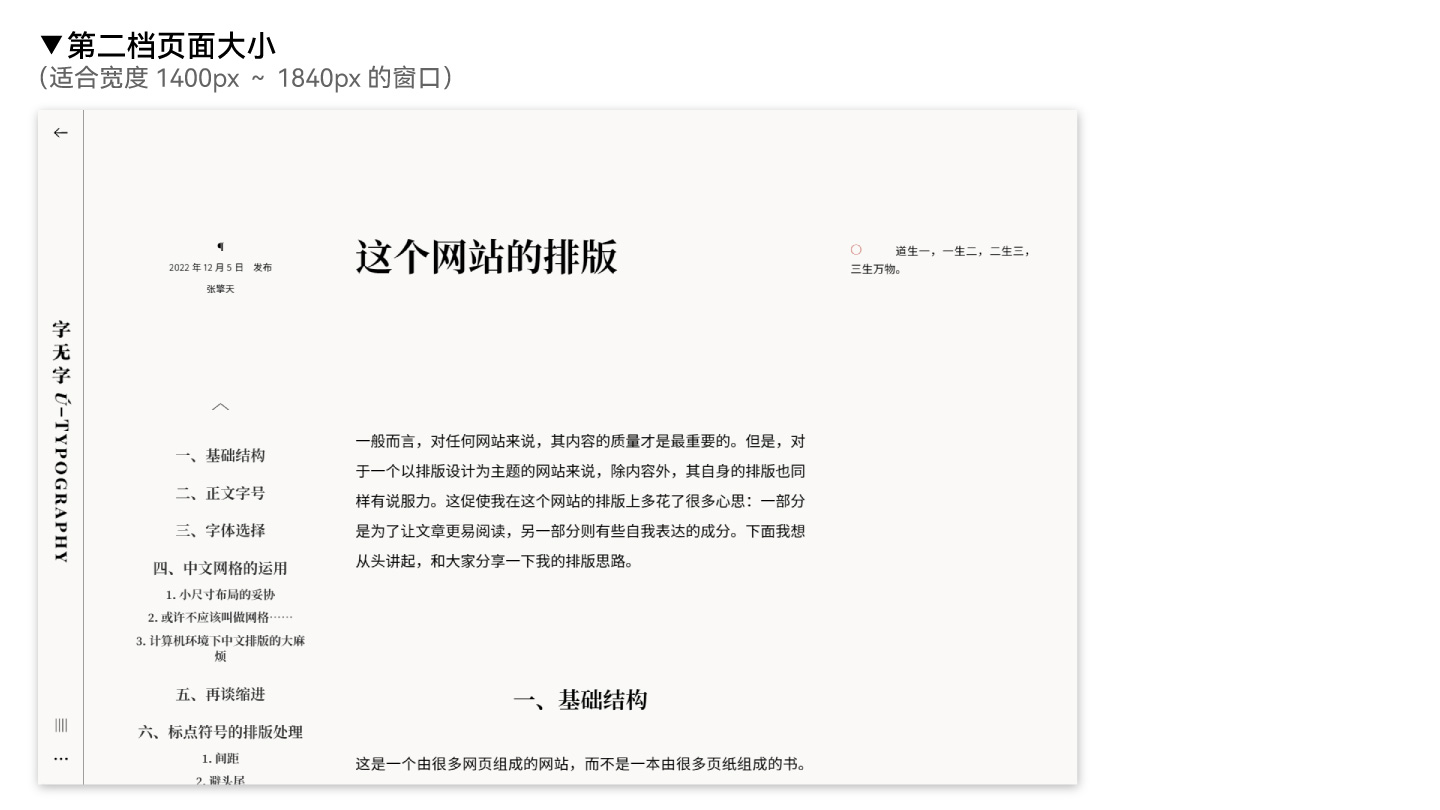
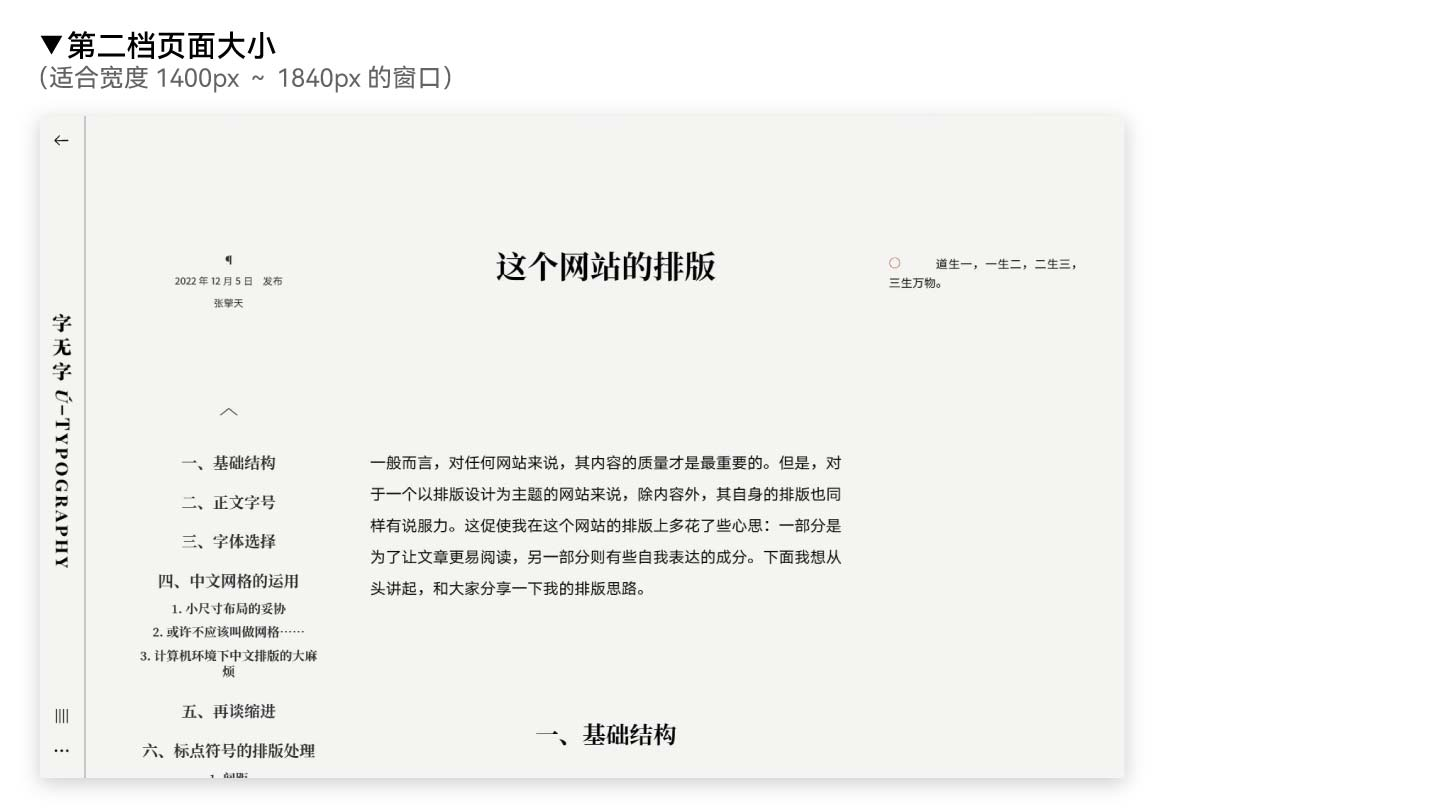
更新内容。微调首页样式。调整交互式段落在微尺寸下的样式。han.js增加波浪连接号。修正排版页微尺寸下居中网格线。修正文章页尺寸零界点bug

diff --git a/Typography_of_this_Site.html b/Typography_of_this_Site.html
@@ -246,15 +246,17 @@
                     <p>这里我不打算挑战这种习惯，依然选择黑体作为正文字体。不过，我特意加入了更换字体的功能，点击右上角（有时是在左下角）的三个小圆点<sup class="sideNoteMark">＃</sup><span class="sideNote"><span class="tabulation">＃&#9;</span>你的浏览器的界面上可能也有三个小圆点，别点错了。点这个网页里的三个小圆点。</span>，你就可以更换这个网页的字体，试试看用宋体来读这篇文章，看看体验如何。</p>
                     <p>至于具体是用何种黑体以及何种宋体，这里使用了<span class="Latin noAutoHyphen" lang="en">Google Fonts</span>服务上提供的思源黑体（<span class="Latin noAutoHyphen" lang="en">Source Han Sans</span>，也叫<span class="Latin noAutoHyphen" lang="en">Noto Sans</span>）和思源宋体（<span class="Latin noAutoHyphen" lang="en">Source Han Serif</span>，也叫<span class="Latin noAutoHyphen" lang="en">Noto Serif</span>）作为保底选项，即便你的设备上没有安装这两个字体，只要网络连接正常，就能用上这两个字体（当然也会额外消耗少量的流量）。这样可以尽量避免出现回退到系统默认字体的情况（现代操作系统默认的黑体大多质量尚可，但默认的宋体在屏幕显示上的效果大多不太理想）。</p>
                     <p>除了保底的字体外，假如你的设备上安装了下列字体，那也有可能以它们来显示：汉仪旗黑、<span class="Latin noAutoHyphen" lang="en">HarmonyOS Sans</span>（华为鸿蒙字体）、<span class="Latin noAutoHyphen" lang="en">MiSans</span>（小米字体）；方正雅宋。<sup class="sideNoteMark">※</sup><span class="sideNote"><span class="tabulation">※&#9;</span>优先调用排序靠前的字体。若该字体未安装则调用下一顺位的字体。所有字体均未安装则使用保底字体。无法正常连接至<span class="Latin noAutoHyphen" lang="en">Google Fonts</span>服务导致无法使用保底字体，则使用系统默认字体。</span>字体的调用顺位纯粹是出于我的个人喜好来决定的。你可能更喜欢顺序更靠后的字体，不过很遗憾，本网站没有提供更改字体顺位的功能。</p>
-                    <figure><img alt="图像" src="images/Typography_of_this_Site/图示_网站用到的字体.jpg" alt=""></figure>
-                    <div class="TuZhu">本网站可能用到的字体</div>
+                    <figure><img alt="图像" src="images/Typography_of_this_Site/图示_网站用到的字体.jpg"></figure>
+                    <div class="TuZhu">本网站可能用到的字体。</div>
                     <p>需要注意的是，由于不同的操作系统、不同的浏览器对字体的渲染方式不同，因而即便排除了上述的屏幕分辨率、缩放倍数之类的不可控因素，同一个字体仍然可能呈现出不同的效果。<sup class="sideNoteMark">⊙</sup><span class="sideNote"><span class="tabulation">⊙&#9;</span>比如，在我的电脑上，用<span class="Latin noAutoHyphen" lang="en">Chrome</span>浏览器和<span class="Latin" lang="en">Firefox</span>浏览器分别打开这个网页，字体的显示效果就不同。<span class="Latin" lang="en">Chrome</span>中的字体效果更细巧一些，<span class="Latin noAutoHyphen" lang="en">Firefox</span>中的字体效果更浑厚一些。本网站主要在<span class="Latin noAutoHyphen" lang="en">Windows</span>操作系统上的<span class="Latin noAutoHyphen" lang="en">Firefox</span>浏览器中调试，因此在<span class="Latin noAutoHyphen" lang="en">Firefox</span>浏览器中的效果是我选择字体的最主要依据。</span></p>
                     <p>对于西文字体，则分别使用<span class="Latin noAutoHyphen" lang="en">Source Sans Pro</span>（与黑体搭配）和<span class="Latin noAutoHyphen" lang="en">Source Serif Pro</span>（与宋体搭配），并对字号做了微调，以便与中文混排时更和谐。<sup class="sideNoteMark">＋&#65279;＋</sup><span class="sideNote" id="＋＋"><span class="tabulation">＋&#65279;＋&#9;</span>这个网站在写<span class="Latin" lang="en">CSS</span>代码时，没有采用常用的“西文字体声明在前，中文字体声明在后”的方法，而是为西文加上专门的<span class="Latin" lang="en">HTML</span>标签，作为单独一个类来设定<span class="Latin" lang="en">CSS</span>样式。这样可以有更高的排版自由度，毕竟中西文有时并不仅仅是字体需要不同，其字号、字重、基线等也可能需要分别设定。</span>西文字体没有设置其他的候选项，这是因为不同的西文字体的宽度比例可能不同，如果允许调用不同的字体，可能导致排版布局发生变化，这对于排版方式较为复杂的本网站来说是个比较麻烦的不可控因素。</p>
                     <h2 id='中文网格的运用'>四、中文网格的运用</h2>
                     <p>最精彩的部分来了。</p>
                     <p>网格系统是平面设计中常用的工具。不过，怎样将诞生于西文环境下的网格系统运用于汉字的排版中来，一直是一个值得钻研的问题。汉字的方块特性使得它本身自带网格属性，如果不仔细斟酌的话，汉字自身的网格特性可能会与页面的网格布局相冲突。</p>
                     <figure><img alt="图像" src="images/Typography_of_this_Site/图示_版面网格与中文网格的冲突1.jpg"></figure>
+                    <div class="TuZhu">汉字自身的网格可能与页面的网格相冲突。在这个例子中，在设定页面网格时没有考虑到它和汉字字数相匹配的问题，于是出现了“少一个字不足，多一个字太多”的问题。</div>
                     <figure><img alt="图像" src="images/Typography_of_this_Site/图示_版面网格与中文网格的冲突2.jpg"></figure>
+                    <div class="TuZhu">如果为了让段落对齐网格而强行左右对齐的话，事实上就是强制拉开了文字的字间距，并且会导致段落内的字距不均匀。正确的做法是在设置页面网格的时候就考虑好它和汉字字数的关系。</div>
                     <p>在这里，我结合个人的习惯，创造出如下的网格布局：以一个正文字的宽度为基本单位，每三个基本单位为一小栏，各个部分均由若干小栏组成（即宽度都是三个字的倍数）。比如，在“大”型布局中，左侧的大纲栏的宽度为十二个正文字，中间正文栏的宽度为三十个正文字，右侧注释栏的宽度为十二个正文字。栏与栏之间的间距为三个正文字。同时，注释字号为正文字号的四分之三，也即四个注释字的宽度等于三个正文字，这样正文和注释就可以在段首缩进相同的距离，同时又严格保证分别与其自身的字号网格对齐。</p>
                     <figure><img alt="图像" src="images/Typography_of_this_Site/图示_各部分宽度示意.jpg"><img alt="图像" src="images/Typography_of_this_Site/图示_正文与注释的字号关系.jpg"></figure>
                     <p>顺便一提，在这个页面的左下角或右上角，有一个由四条竖线组成的按钮<sup class="sideNoteMark">✽&#65279;✽</sup><span class="sideNote"><span class="tabulation">✽&#65279;✽&#9;</span>大概是“||||”的造型，四条竖线组成三个区域，正是对这个页面的网格结构的隐喻。</span>，点击该按钮，就可以显示页面的网格线，能很好地帮助理解上面的内容。其中，浅灰色表示单字网格线，深灰色表示三字网格线，深蓝色表示版块边缘线，浅蓝色表示缩进线，红色表示居中对齐线。</p>
@@ -267,6 +269,7 @@
                     <h3 id='或许不应该叫做网格……'><span class="Latin">2. </span>或许不应该叫做网格<span class="ShengLyueHao">……</span></h3>
                     <p>在传统的书籍设计中，每一页上的正文行都应当对齐到纵向的文字网格，这样在翻页时版面会有稳定感，减小眼睛的负担。但在网页这种连续滚动的媒介中，这种纵向的网格对齐恐怕并不必要。因此，这个网站并不在纵向上规定文字网格。如此一来，似乎将这样一种单向分割的网格系统叫做“栅栏系统”更加贴切<span class="ShengLyueHao">……</span>或者说，这里的网格指的是汉字自身的网格，而非用参考线画出来的网格。</p>
                     <figure><img alt="图像" src="images/Typography_of_this_Site/图示_书籍的横向和纵向网格.jpg"></figure>
+                    <div class="TuZhu">传统的书籍设计，每一页上的正文都应该对齐到统一的纵向网格。标题、注释等非正文元素倒是可以不对齐到纵向网格。</div>
                     <h3 id='计算机环境下中文排版的大麻烦'><span class="Latin">3. </span>计算机环境下中文排版的大麻烦</h3>
                     <p>在计算机上排中文有时会遇到一些麻烦。假设段落宽度和字号大小都是固定的，那处理起来便非常容易；但是，假如段落的宽度会随着窗口宽度的变化而改变（这是电脑上经常出现的情况，也是这个网站的“微”型布局采用的方式），或者在窗口宽度不变的情况下可以自行设定字号大小（这是手机、电纸书等小尺寸设备上常见的排版功能），就可能会遇到一些问题。</p>
                     <p>下面的交互式图示中有三个段落，段落①采用当今的计算机软件上常见的排版方式，并且段落左右对齐；段落②是理想的中文排版方式，并且段落左右对齐；段落③则采用左对齐的方式来当作参照。缓慢拖动下方的滑块，改变该区域的宽度，仔细观察在宽度改变时，三个段落的字间距会有怎样的变化。<!--（一些使用触摸屏的设备上可能无法正常使用该交互功能，可直接看下方的图示）--></p>
@@ -281,6 +284,7 @@
                     <div class="TuZhu">不恰当的排版方式，会导致段落内部的字间距不一致，尤其是除最后一行以外的其他行的字间距会被拉开。</div>
                     <p>为了正文阅读的排版，字间距是相当重要的。随意改变字间距是致命的，西方字体排印界有句谚语：“拉开小写字母字间距的人会╳羊。”<sup class='footnoteMark' id='footnote-mark-2'><a href='#footnote-number-2'>2</a></sup>中文没有这样的说法，但仍不应过分拉大或缩小字间距，而一个段落内部或段落之间的字间距不一致更是大罪过<sup class="sideNoteMark">＃&#65279;＃</sup><span class="sideNote"><span class="tabulation">＃&#65279;＃&#9;</span>有些情况下，比如为了标点避头尾，中西混排等，字间距可以稍稍不一致，但这里显然并非这种情况。</span>，这让版面灰度变得参差，阅读节奏变得混乱，无论是看起来还是读起来都不舒服。</p>
                     <figure><img alt="图像" src="images/Typography_of_this_Site/图示_行长等于字号的整数倍2.jpg"></figure>
+                    <div class="TuZhu">不恰当的排版方式导致版面灰度不均，阅读节奏不稳定。</div>
                     <p>上面的图示中的段落①正是犯了这个毛病；段落②的排版是恰当的；段落③的排版也正常，只是中文的正文排版通常都是左右对齐，单纯左对齐的情况较为少见。</p>
                     <p>之所以会出现段落①的问题，是因为在排版时段落的宽度没有始终等于单个字的宽度的整数倍<sup class='footnoteMark' id='footnote-mark-3'><a href='#footnote-number-3'>3</a></sup>，也就是没有处理好上面提到的汉字自身的网格特性。<sup class="sideNoteMark">※&#65279;※</sup><span class="sideNote"><span class="tabulation">※&#65279;※&#9;</span>一般来说，出现这样的问题可能是在设定版式时，让段落的宽度等于页面宽度的某个固定的比例，或者是从页面上减去固定的边距后，在剩下的区域内填充段落。这些做法在当前的计算机软件上实现起来是较为容易的，然而这是个陷阱。</span>计算机软件的排版功能大多为西文排版而设计，一些看起来理所当然的操作，虽然对于西文是合适的，但若直接套用在中文身上，可能就会出问题。</p>
                     <p>遗憾的是，在网页上用原生的<span class="Latin" lang="en">HTML</span>和<span class="Latin" lang="en">CSS</span>无法实现第二个段落的效果，在大部分平面设计软件中要实现这样的效果也稍有麻烦，<strong>这是计算机时代中文排版的一大挑战</strong>。在这个网站上，为了实现这样的效果，用到了一些<span class="Latin" lang="en">JavaScript</span>，核心代码如下：</p>
@@ -301,7 +305,7 @@ window.visualViewport.addEventListener(&quot;resize&quot;, chineseGrid);
                     <h2 id='再谈缩进'>五、再谈缩进</h2>
                     <p>前文已经说明了每个段落开头空三格是为了配合整体的网格布局。除了这个原因外，段首空三格还能创造出较大的空白，这样在页面滚动时能更好地凸显出段落的分割。（在段落间增加额外的间距也能起到同样的效果，这里没有采用这种方法。）</p>
                     <p>另外你还会发现，这个网站在每个小标题下的第一个段落不采用首行缩进。</p>
-                    <p>首行缩进（在中文里一般是开头空两格）的目的是为了将本段落与上一个段落区分开来，而第一个段落没有“上一个段落”，自然也就无需缩进，非常符合逻辑。<sup class="sideNoteMark">⊙&#65279;⊙</sup><span class="sideNote"><span class="tabulation">⊙&#65279;⊙&#9;</span>这种第一个段落不缩进，第二个段落再开始缩进的做法在西文中是比较常见的（通常还伴随着第一个段落的前几个单词使用小型大写字母），这里确实有所借鉴。另外，有观点认为，在网页上使用段落间增加空行的方法来分段比使用首行缩进更好。这种观点有一定的道理。不过，这个网站的设计思路之一是挑战在网页上做出如同印刷品般精细的排版，所以采用了段首缩进的分段方式。</span>当然，像通常的习惯那样每个段落开头空两格也有道理，这样可以将缩进视作是段落开始的一个仪式，也说得通。我听说藏文等一些文字在每个段落的开头都会使用专门的符号来表示段落的起始，这种仪式性的符号也确实别有一番风味。</p>
+                    <p>首行缩进（在中文里一般是开头空两格）的目的是为了将本段落与上一个段落区分开来，而第一个段落没有“上一个段落”，自然也就无需缩进，非常符合逻辑。<sup class="sideNoteMark">⊙&#65279;⊙</sup><span class="sideNote"><span class="tabulation">⊙&#65279;⊙&#9;</span>这种第一个段落不缩进，第二个段落再开始缩进的做法在西文中是比较常见的（通常还伴随着第一个段落的前几个单词使用小型大写字母），这里确实有所借鉴。<!--另外，有观点认为，在网页上使用段落间增加空行的方法来分段比使用首行缩进更好。这种观点有一定的道理。不过，这个网站的设计思路之一是挑战在网页上做出如同印刷品般精细的排版，所以采用了段首缩进的分段方式。--></span>当然，像通常的习惯那样每个段落开头空两格也有道理，这样可以将缩进视作是段落开始的一个仪式，也说得通。我听说藏文等一些文字在每个段落的开头都会使用专门的符号来表示段落的起始，这种仪式性的符号也确实别有一番风味。</p>
                     <p>另外，更重要的是，由于开头空三格已经出现了很大的空白，在小尺寸的布局中，让第一个段落不缩进可以避免它和标题形成的空白造型过于不规整。</p>
                     <figure><img alt="图像" src="images/Typography_of_this_Site/图示_缩进1.jpg"><img alt="图像" src="images/Typography_of_this_Site/图示_缩进2.jpg"></figure>
                     <h2 id='标点符号的排版处理'>六、标点符号的排版处理</h2>
@@ -320,7 +324,7 @@ window.visualViewport.addEventListener(&quot;resize&quot;, chineseGrid);
                                 短横线（<span class="BanZiXian">–</span>）、间隔号（<span class="JianGeHao">·</span>）、分隔号（<span class="FenGeHao">／</span>）占半个字的宽度；</p>
                         </li>
                         <li>
-                            <p><span class="orderedListIndex"><span class="Latin">3</span>）&#9;</span>其他标点在单独使用时占一个字的宽度，在多个标点连用时灵活调整标点间的间距。<sup class="sideNoteMark">＃&#65279;＃&#65279;＃</sup><span class="sideNote"><span class="tabulation">＃&#65279;＃&#65279;＃&#9;</span>很多人以为国标中对标点的宽度的描述是每个标点占一个字的宽度（也就是“全宽式”），其实并不是。除去破折号、省略号这两个长标点占两个字外，国标仍将短横线、间隔号、分隔号这三个标点定义为半个字宽，这其实非常符合排版的美观性的要求，也利于流畅阅读。</span></p>
+                            <p><span class="orderedListIndex"><span class="Latin">3</span>）&#9;</span>其他标点在单独使用时占一个字的宽度，在多个标点连用时灵活调整标点间的间距。<sup class="sideNoteMark">＃&#65279;＃&#65279;＃</sup><span class="sideNote"><span class="tabulation">＃&#65279;＃&#65279;＃&#9;</span>很多人以为国标中对标点的宽度的描述是每个标点占一个字的宽度（也就是“全宽式”），其实并不是。除去破折号、省略号这两个长标点占两个字外，国标仍将短横线（俗称半字线）、间隔号、分隔号这三个标点定义为半个字宽，这其实非常符合排版的美观性的要求，也利于流畅阅读。</span></p>
                         </li>
                     </ol>
                     <p class="noIndentParagraph">对中西文之间的间距则设定为四分之一个汉字宽，这也是目前的排版实践中较常用的做法，虽然事实上间距再稍稍大一些或小一些也都是合适的。</p>
@@ -329,7 +333,7 @@ window.visualViewport.addEventListener(&quot;resize&quot;, chineseGrid);
                     <p>标点的避头尾参照《<cite>标点符号用法</cite>》和日常使用习惯。<sup class="sideNoteMark">※&#65279;※&#65279;※</sup><span class="sideNote"><span class="tabulation">※&#65279;※&#65279;※&#9;</span>在<span class="Latin noAutoHyphen" lang="en">Chrome</span>、<span class="Latin noAutoHyphen" lang="en">Edge</span>、<span class="Latin noAutoHyphen" lang="en">Safari</span>等浏览器上有时一些标点避头尾会出问题，而在<span class="Latin noAutoHyphen" lang="en">Firefox</span>浏览器上没有问题。该问题暂时超出我的技术能力范围，恕无法解决。</span>对于<!--《<cite>标点符号用法</cite>》中没有明确说明，且-->日常使用习惯上有争议的内容，这里处理如下：</p>
                     <ol>
                         <li>
-                            <p><span class="orderedListIndex"><span class="Latin">1</span>）&#9;</span>破折号（<span class="PoZheHao">——</span>）、省略号（<span class="ShengLyueHao">……</span>）在《<cite>标点符号用法</cite>》中未说明需要避头或避尾<sup class="sideNoteMark">⊙&#65279;⊙&#65279;⊙</sup><span class="sideNote" id="⊙⊙⊙"><span class="tabulation">⊙&#65279;⊙&#65279;⊙&#9;</span>原文为“<span class="ShengLyueHao">……</span>不能中间断开分处上行之末和下行之首。”目前计算机中的中文破折号和省略号各自是由两个字符组合而成，在较弱的排版软件中这两个字符可能会前一个出现在上一行，后一个出现在下一行。这句话是针对此而说的。有人将其理解为“破折号、省略号不能处于上行之末或下行之首”，这是完全误解了这句话的意思。</span>，在日常使用习惯上通常会避头，有时会避尾，这里选择既不避头也不避尾。</p>
+                            <p><span class="orderedListIndex"><span class="Latin">1</span>）&#9;</span>破折号（<span class="PoZheHao">——</span>）、省略号（<span class="ShengLyueHao">……</span>）在《<cite>标点符号用法</cite>》中未说明需要避头或避尾<sup class="sideNoteMark">⊙&#65279;⊙&#65279;⊙</sup><span class="sideNote" id="⊙⊙⊙"><span class="tabulation">⊙&#65279;⊙&#65279;⊙&#9;</span>《<cite>标点符号用法</cite>》原文为“<span class="ShengLyueHao">……</span>不能中间断开分处上行之末和下行之首。”目前计算机中的中文破折号和省略号各自是由两个字符组合而成，在较弱的排版软件中这两个字符可能会前一个出现在上一行，后一个出现在下一行。这句话是针对此而说的。有人将其理解为“破折号、省略号不能处于上行之末或下行之首”，这是完全误解了这句话的意思。</span>，在日常使用习惯上通常会避头，有时会避尾，这里选择既不避头也不避尾。</p>
                             <figure><img alt="图像" src="images/Typography_of_this_Site/图示_避头尾破折号省略号.jpg"></figure>
                             <p>这是因为破折号和省略号会占用两个字的宽度，假如它们既要避头又要避尾的话，也就意味着连带它们前后的字符，会出现一个至少四个字宽的不可换行字符组。这样一个长字组如果要求它必须整体位于上一行之尾或下一行之首，则可能导致一行文字的字间距被过分地拉大（这样做的危害在前面已经介绍过了）。解决这一问题的方法出奇地简单：让破折号、省略号能出现在行首或行末就可以了。至于有人说“破折号、省略号这种细长条的符号直接出现在段落边缘不美观”，对此我不予否认，但我认为文字间距被过分地拉大更加“不美观”。同时，一个细长条的符号在段落边缘吊着孤零零的一个字，或许也不“美观”。另外，考虑到汉字“一一（<span class="Latin noAutoHyphen">yīyī</span>）”也可能出现在段落边缘，或许我们不必对段落边缘的细长条造型太过敏感。</p>
                             <figure><img alt="图像" src="images/Typography_of_this_Site/图示_避头尾破折号过于严格问题.jpg"></figure>
@@ -337,7 +341,7 @@ window.visualViewport.addEventListener(&quot;resize&quot;, chineseGrid);
                         <li>
                             <p><span class="orderedListIndex"><span class="Latin">2</span>）&#9;</span>一字线（<span class="YiZiXian">—</span>）、短横线（<span class="BanZiXian">–</span>）、浪纹线（～）按《<cite>标点符号用法</cite>》需要避头而不需要避尾，在日常使用习惯上通常会避头，有时会避尾，这里选择需要避头而不需要避尾。</p>
                             <figure><img alt="图像" src="images/Typography_of_this_Site/图示_避头尾一字线短横线浪纹线.jpg"></figure>
-                            <p>这应该很少有争议，因为这些符号无论从造型上还是从功能上都类似于西文中的<span class="Latin noAutoHyphen" lang="en">hyphen</span>和<span class="Latin noAutoHyphen" lang="en">dash</span>，<sup class="sideNoteMark">＋&#65279;✽&#65279;＃</sup><span class="sideNote"><span class="tabulation">＋&#65279;✽&#65279;＃&#9;</span>我没有做过调研，但我猜测这些符号就是从西文中的<span class="Latin noAutoHyphen" lang="en">hyphen</span>和<span class="Latin noAutoHyphen" lang="en">dash</span>演变来的。</span>而<span class="Latin noAutoHyphen" lang="en">hyphen</span>和<span class="Latin noAutoHyphen" lang="en">dash</span>的排版方法就是需要避头而不需要避尾，这样做非常合理，也恰好与国家标准相符。<sup class="sideNoteMark">✽&#65279;＃&#65279;※</sup><span class="sideNote" id="✽＃※"><span class="tabulation">✽&#65279;＃&#65279;※&#9;</span>需要注意的是，目前在计算机中，中文一字线通常使用<span class="Latin" lang="en">1</span>个<span class="Latin noAutoHyphen" lang="en">Em Dash</span>（—，<code>U+2014</code>）来表示，中文破折号通常使用<span class="Latin" lang="en">2</span>个<span class="Latin noAutoHyphen" lang="en">Em Dash</span>（<span class="PoZheHao">——</span>，<code>U+2014</code><span class="Latin" lang="en"> ×&nbsp;2</span>）来表示（另外，还有<span class="Latin noAutoHyphen" lang="en">Two-Em Dash</span>〔⸺，<code>U+2E3A</code>〕这个字符，或许更适合用来表示中文破折号，但大多数字体和输入法都不支持这一字符）。由于一字线和破折号使用的是同样的字符，因而对其中一个标点设置的避头尾属性也很有可能被同时运用在另一个上。</span></p>
+                            <p>这应该很少有争议，因为这些符号无论从造型上还是从功能上都类似于西文中的<span class="Latin noAutoHyphen" lang="en">hyphen</span>和<span class="Latin noAutoHyphen" lang="en">dash</span><sup class="sideNoteMark">＋&#65279;✽&#65279;＃</sup><span class="sideNote"><span class="tabulation">＋&#65279;✽&#65279;＃&#9;</span>我没有做过调研，但我猜测这些符号就是从西文中的<span class="Latin noAutoHyphen" lang="en">hyphen</span>和<span class="Latin noAutoHyphen" lang="en">dash</span>演变来的。</span>，而<span class="Latin noAutoHyphen" lang="en">hyphen</span>和<span class="Latin noAutoHyphen" lang="en">dash</span>的排版方法就是需要避头而不需要避尾，这样做非常合理，也恰好与国家标准相符。<sup class="sideNoteMark">✽&#65279;＃&#65279;※</sup><span class="sideNote" id="✽＃※"><span class="tabulation">✽&#65279;＃&#65279;※&#9;</span>需要注意的是，目前在计算机中，中文一字线通常使用<span class="Latin" lang="en">1</span>个<span class="Latin noAutoHyphen" lang="en">Em Dash</span>（—，<code>U+2014</code>）来表示，中文破折号通常使用<span class="Latin" lang="en">2</span>个<span class="Latin noAutoHyphen" lang="en">Em Dash</span>（<span class="PoZheHao">——</span>，<code>U+2014</code><span class="Latin" lang="en"> ×&nbsp;2</span>）来表示（另外，还有<span class="Latin noAutoHyphen" lang="en">Two-Em Dash</span>〔⸺，<code>U+2E3A</code>〕这个字符，或许更适合用来表示中文破折号，但大多数字体和输入法都不支持这一字符）。由于一字线和破折号使用的是同样的字符，因而对其中一个标点设置的避头尾属性也很有可能被同时运用在另一个上。</span></p>
                         </li>
                         <li>
                             <p><span class="orderedListIndex"><span class="Latin">3</span>）&#9;</span>间隔号（<span class="JianGeHao">·</span>）按《<cite>标点符号用法</cite>》需要避头而不需要避尾，在日常使用习惯上可能既避头又避尾，这里选择需要避头而不需要避尾。</p>
@@ -364,16 +368,16 @@ window.visualViewport.addEventListener(&quot;resize&quot;, chineseGrid);
                             <p><span class="orderedListIndex"><span class="Latin">2</span>）&#9;</span>括号按照一般的使用习惯处理。</p>
                             <p>对于圆括号“（&#8197;）”内需要嵌套使用圆括号的情况，则二级圆括号改用六角括号“〔&#8197;〕”。之所以二级括号不使用方括号“［&#8197;］”是为了避免它的造型和二级引号过于接近，比如［「这样」］。</p>
                         </li>
-                        <li>
+                        <!-- <li>
                             <p><span class="orderedListIndex"><span class="Latin">3</span>）&#9;</span>对于顿号，采用了类似“牛津逗号”的做法，即并列的多个词语之间都加顿号，包括最后两个并列词语之间（按现今的中文习惯，并列的多个词语中的最后两个之间不加顿号，只使用“和”或“或”）。</p>
                             <p>“牛津逗号”可以在一定程度上避免英文表达的歧义，而现今中文里顿号的用法较少造成歧义。这里仍然改用“牛津逗号”的做法是因为在如今常见的中文排版方法下，标点通常占一个字宽，于是会留出明显的空白。这些空白可以作为视觉锚点，明确各个并列的词语的起止位置。同时，这样做从视觉上也能直观地看出并列的事物的数量。</p>
-                        </li>
+                        </li> -->
                         <li>
-                            <p><span class="orderedListIndex"><span class="Latin">4</span>）&#9;</span>中文文本里的西文作品名不使用斜体，而是仍按中文习惯使用书名号。<sup class="sideNoteMark">＋&#65279;⊙&#65279;※</sup><span class="sideNote"><span class="tabulation">＋&#65279;⊙&#65279;※</span>我知道这不符合《<cite>夹用英文的中文文本的标点符号用法（草案）</cite>》第<span class="Latin" lang="en">6.2</span>条。但我对我的观点非常有自信。</span></p>
+                            <p><span class="orderedListIndex"><span class="Latin">3</span>）&#9;</span>中文文本里的西文作品名不使用斜体，而是仍按中文习惯使用书名号。<sup class="sideNoteMark">＋&#65279;⊙&#65279;※</sup><span class="sideNote"><span class="tabulation">＋&#65279;⊙&#65279;※</span>我知道这不符合《<cite>夹用英文的中文文本的标点符号用法（草案）</cite>》第<span class="Latin" lang="en">6.2</span>条。但我对我的观点非常有自信。</span></p>
                             <p>这么做是为了形式上的一致性。既然是夹杂在中文文本中的零星的外文词语，那完全可以（也应该）按中文的排版方式来处理。比如中文里出现连续并列的英文词汇时，它们之间是使用顿号而不是按英文习惯使用逗号；中文里引用法文词句时，通常也是使用弯引号，而不是按法文习惯用尖角引号。给西文作品名加上书名号，既不会让信息传达出现偏差，也不会造成文本过于不美观（中文书名号直接来源于西文尖角引号，它与西文必然能和谐搭配，如果不美观那是字体设计的问题）。假如要求外文作品名按照该文字的排版习惯来处理的话，那日文书名是否也应该按照日文习惯使用『』来表示？阿拉伯文书名是否也应该按照阿拉伯文的习惯来表示？（我其实不知道阿拉伯文是如何表示书名的。）仅仅让英文书名按照源语言的排版习惯来处理，似乎是人为制造了双重标准。</p>
                         </li>
                         <li>
-                            <p><span class="orderedListIndex"><span class="Latin">5</span>）&#9;</span>由于这个网站的每篇文章既有边注，又有尾注。在尾注使用数字编号的情况下，为了防止混淆，边注就不再使用数字，并且也没有使用西文传统上的“*””“†”“‡” “§”“¶”“‖”<sup class='footnoteMark' id='footnote-mark-5'><a href='#footnote-number-5'>5</a></sup>，而是采用“＋”“✽”“＃”“※”“⊙”，五个用完后则使用“＋＋”“✽✽”“＃＃”<span class="ShengLyueHao">……</span>，以此类推。这么做没有什么特别的理由，只是为了增加一些个性。（在“微”型布局下，边注会转换为行内注，此时不再使用编号。）</p>
+                            <p><span class="orderedListIndex"><span class="Latin">4</span>）&#9;</span>由于这个网站的每篇文章既有边注，又有尾注。在尾注使用数字编号的情况下，为了防止混淆，边注就不再使用数字，并且也没有使用西文传统上的“*””“†”“‡” “§”“¶”“‖”<sup class='footnoteMark' id='footnote-mark-5'><a href='#footnote-number-5'>5</a></sup>，而是采用“＋”“✽”“＃”“※”“⊙”，五个用完后则使用“＋＋”“✽✽”“＃＃”<span class="ShengLyueHao">……</span>，以此类推。这么做没有什么特别的理由，只是为了增加一些个性。（在“微”型布局下，边注会转换为行内注，此时不再使用编号。）</p>
                         </li>
                     </ol>
                     <hr>

diff --git a/Donate.html b/Donate.html
@@ -95,7 +95,7 @@
                     <div class="metaInfo-Seperator"></div>
                     <div id="time">
                         <ul>
-                            <li><time pubdate datetime="2022-05-31"><span class="number">2022</span>年<span class="number">5</span>月<span class="number">31</span>日</time>&emsp;发布</li>
+                            <li><time pubdate datetime="2023-02-21"><span class="number">2023</span>年<span class="number">2</span>月<span class="number">21</span>日</time>&emsp;发布</li>
                         </ul>
                     </div>
                     <div class="metaInfo-Seperator"></div>
@@ -119,13 +119,13 @@
             </div>
             <div id="mainContent">
                 <article>
-                    <p>这个网站上的所有内容都是免费观看的，您不需要为此支付任何费用。不过，如果您觉得这个网站对您有很大帮助，也欢迎给我打赏。您的支持将鼓励我产出更多的优质内容。</p>
-                    <!-- <p>【收款码】</p> -->
+                    <p>如果您觉得这个网站对您有很大帮助，欢迎给我打赏！您的支持将鼓励我产出更多优质的内容。</p>
+                    <figure><img alt="支付宝收款码" src="images/Donate/支付宝收款码.JPG"></figure>
                     <p>打赏是完全自愿的。无论您是否打赏，或者打赏的金额多少，您都不会被区别对待。</p>
                     <p>打赏前请仔细确认打赏金额和收款人，打赏后无法退款。</p>
                     <p>打赏时您可以将您的姓名或昵称一并发送，我将在致谢页面予以展示。您也可以选择匿名。<sup class="sideNoteMark">＋</sup><span class="sideNote"><span class="tabulation">＋</span>昵称中若包含不宜公开展示的内容，在展示时也将按匿名处理，请谅解。</span></p>
                     <p>&nbsp;</p>
-                    <p>如果您是打算向我支付对本网站上的内容的特定使用方式的报酬（详见“<a href="Copyright.html" target="_blank">版权声明</a>”），请不要通过打赏渠道向我付费，请通过邮件和我联系（详见“<a href="Contact_and_Feedback.html" target="_blank">联系与反馈</a>”），感谢您的支持！</p>
+                    <p><small>如果您是打算向我支付对本网站上的内容的特定使用方式的报酬（详见“<a href="Copyright.html" target="_blank">版权声明</a>”），请不要通过打赏渠道向我付费，请通过邮件和我联系（详见“<a href="Contact_and_Feedback.html" target="_blank">联系与反馈</a>”），感谢您的支持！</small></p>
                 </article>
                 <footer>
                     <small>©&#8197;<a href="Copyright.html" target="_blank">版权声明</a>&emsp;＠&#8197;<a href="Contact_and_Feedback.html" target="_blank">联系与反馈</a>&emsp;♡&#8197;<a href="Acknowledgements.html" target="_blank">致谢</a></small>

diff --git a/styles/additional/u-Typography-Typography_of_this_Site-additional.css b/styles/additional/u-Typography-Typography_of_this_Site-additional.css
@@ -140,10 +140,9 @@ input[type="range"]::-moz-range-thumb {
 	box-sizing: border-box;
 	/* transition: background-color 200ms ease-in-out; */
 }
-input[type="range"]::-moz-range-thumb:hover{
+input[type="range"]::-moz-range-thumb:hover {
 	box-shadow: 0px 0px 4px var(--colour-1);
 	transition: box-shadow 200ms ease-in-out;
-
 }
 /* input[type="range"]::-moz-range-thumb:hover {
 	background: rgb(253, 250, 242);
@@ -170,7 +169,6 @@ input[type="range"]::-webkit-slider-thumb {
 	height: 15px;
 } */
 
-
 /* 【1】#############################
 宽度大于1820的窗口，或经过1.25倍放大的宽度大于2275的窗口
 适用于1920宽的屏幕，或经过1.25倍放大的2560宽的屏幕
@@ -179,7 +177,7 @@ input[type="range"]::-webkit-slider-thumb {
 	#＋＋ {
 		margin-top: 3.75rem;
 	}
-	#✽＃※{
+	#✽＃※ {
 		margin-top: 1rem;
 	}
 }
@@ -229,10 +227,10 @@ input[type="range"]::-webkit-slider-thumb {
 	#＋＋ {
 		margin-top: 9rem;
 	}
-	#⊙⊙⊙{
-		margin-top: 0.75rem;
+	#⊙⊙⊙ {
+		margin-top: 1.75rem;
 	}
-	#✽＃※{
+	#✽＃※ {
 		margin-top: 1.25rem;
 	}
 }
@@ -270,10 +268,18 @@ input[type="range"]::-webkit-slider-thumb {
 	#＋＋ {
 		margin-top: -1rem;
 	}
+	#中文网格的运用{
+		margin-top: 8rem;
+	}
 }
 /* 【5】#############################
 宽度小于660的窗口，或经过1.25倍放大的宽度小于825的窗口
 正文字号20。*/
+@media screen and (max-width: 679px) {
+	#gridMask {
+		border-right: 1px solid var(--colour-grid-Core);
+	}
+}
 @media screen and (max-width: 680px) {
 	#gridMask {
 		max-width: 28rem;
@@ -284,9 +290,7 @@ input[type="range"]::-webkit-slider-thumb {
 	/* #gridLine-Last-Layout_5{
 		display: inline-block;
 	} */
-	#gridMask{
-		border-right: 1px solid var(--colour-grid-Core);
-	}
+
 	.layout_2_hidden {
 		display: none;
 	}
@@ -308,9 +312,21 @@ input[type="range"]::-webkit-slider-thumb {
 	/* .layout_4_Important {
 		background-color: var(--colour-grid-important);
 	} */
+	#ZuoYouShuangQi-X,
+	#ZuoYouShuangQi-O,
+	#ZuoQi {
+		/* margin: 1rem calc(1rem + 1px); */
+		font-size: 0.75rem;
+		line-height: 1rem;
+		/* text-indent: 0; */
+		/* text-align: justify; */
+		/* color: rgb(66, 66, 66); */
+		/* max-width: 100%; */
+		min-width: 6rem;
+	}
 }
 @media screen and (max-width: 600px) {
 	#gridLine-Centre-Layout_3_4_5 {
-		left: calc(50% - 0.25rem);
+		left: 50%;
 	}
 }

diff --git a/scripts/additional/u-Typography-Typography_of_this_Site-additional.js b/scripts/additional/u-Typography-Typography_of_this_Site-additional.js
@@ -48,25 +48,9 @@ window.addEventListener("resize", gridLineDisplay);
 gridLineDisplay();
 
 
-// 下面是调整段落宽度的
+// 下面是调整交互式段落宽度的
 let ShuangQi_DuanLuo = document.getElementById("ZuoYouShuangQi-O");
 let resizeFrame = document.getElementById("resize");
-// let page = document.getElementById("page");
-// function ZuoYouShuangQi() {
-//     let size = resizeFrame.offsetWidth;
-//     console.log(size);
-//     // size = size.substring(0, size.length - 2);//去掉size后面的“px”
-//     let ZiShu = Math.floor(size / 20) - 4;
-//     console.log(size, ZiShu)
-//     ShuangQi_DuanLuo.style.width = ZiShu + "em";
-// }
-// resizeFrame.addEventListener("mouseover", ZuoYouShuangQi);
-// resizeFrame.addEventListener("mousemove", ZuoYouShuangQi);
-// resizeFrame.addEventListener("mousedown", ZuoYouShuangQi);
-// page.addEventListener("mousemove", ZuoYouShuangQi);
-// page.addEventListener("touchstart", ZuoYouShuangQi);
-// page.addEventListener("touchmove", ZuoYouShuangQi);
-// ZuoYouShuangQi();
 let slider = document.getElementById("paragraphWidth");
 let changeFrameWidth = function () {
     let percentage = slider.value / 10;
@@ -76,7 +60,13 @@ let changeFrameWidth = function () {
     let size = resizeFrame.offsetWidth;
     console.log(size);
     // size = size.substring(0, size.length - 2);//去掉size后面的“px”
-    let ZiShu = Math.floor(size / 20) - 6;
+    let emSize;
+    if (window.innerWidth > 680) {
+        emSize = 20;
+    } else {
+        emSize = 15;
+    }
+    let ZiShu = Math.floor(size / emSize) - 120 / emSize;
     console.log(size, ZiShu)
     ShuangQi_DuanLuo.style.width = ZiShu + "em";
 };

diff --git a/styles/u-Typography-index.css b/styles/u-Typography-index.css
@@ -327,7 +327,7 @@ html {
 	padding: 0px;
 	background-color: var(--colour-paper);
 	border-radius: 4px;
-	border: 1px solid var(--colour-dark-grey-2);
+	border: 1px solid var(--colour-middle-grey-1);
 	box-shadow: 0 0 5px var(--colour-shadow);
 }
 .contentMenuList {
@@ -1098,7 +1098,7 @@ section:hover .headingDecoration {
 }
 ul {
 	font-size: 1.2rem;
-	line-height: 1.5rem;
+	line-height: 1.6rem;
 	position: relative;
 	top: 0rem;
 }
@@ -1131,7 +1131,7 @@ li::marker {
 	font-family: var(--font-hei);
 	font-weight: 400;
 	padding-left: 6rem;
-	line-height: 1.5em;
+	line-height: 1.6em;
 	margin-top: 1rem;
 	color: var(--colour-dark-grey-1);
 	text-align: justify;
@@ -1646,11 +1646,11 @@ h-hws[hidden] {
 		text-align: left;
 		width: 5.4rem;
 	}
-	/* .headingDecoration {
+	.headingDecoration {
 		left: 0.45rem;
-		transform: scale(0.45, 0.45);
-		opacity: 1 !important;
-	} */
+		font-size: 0.9rem;
+		/* letter-spacing: 2em; */
+	}
 	ul {
 		font-size: 1.1rem;
 	}
@@ -1699,4 +1699,9 @@ h-hws[hidden] {
 		top: 8px;
 		left: auto;
 	}
+}
+@media screen and (max-width: 440px) {
+
+	.subtitle {
+		padding-left: 1.1rem;}
 }

diff --git a/styles/u-Typography.css b/styles/u-Typography.css
@@ -1736,7 +1736,7 @@ h-char.bd-consecutive[unicode="30fb"]:not(.end-portion) {
 	}
 	#tableOfContent {
 		width: 12rem;
-		top: 65px;
+		top: 45px;
 	}
 	#mainContent {
 		width: 45rem;
@@ -1892,6 +1892,7 @@ h-char.bd-consecutive[unicode="30fb"]:not(.end-portion) {
 		/* padding: 2rem 0 2rem 0; */
 		margin-top: 24rem;
 		left: 0rem;
+		padding-top: 2rem;
 		padding-bottom: 4rem;
 	}
 	article {
@@ -2209,6 +2210,7 @@ h-char.bd-consecutive[unicode="30fb"]:not(.end-portion) {
 		top: 0;
 		margin: 0 auto;
 		margin-top: 3rem;
+		padding-left: 0rem;
 		/* margin-left: 3rem; */
 		width: calc(100% - 6rem);
 		text-align: center;

diff --git a/scripts/han.js b/scripts/han.js
@@ -155,7 +155,7 @@ void function (global, factory) {
         biaodian: {
             base: '[︰．、，。：；？！ー]',
             liga: '[—…⋯]',
-            middle: '[·＼／－゠＆・＿＋＃✽※⊙｜＊☉●○◎⤴]',
+            middle: '[·＼／－゠＆・＿＋＃✽※⊙｜＊☉●○◎⤴～]',
             open: '[「『《〈（｟〔〘［〚【〖｛“]',
             close: '[」』》〉）｠〕〙］〛】〗｝”]',
             end: '[」』》〉）｠〕〙］〛】〗｝”︰．、，。：；？！ー\u0009]'
